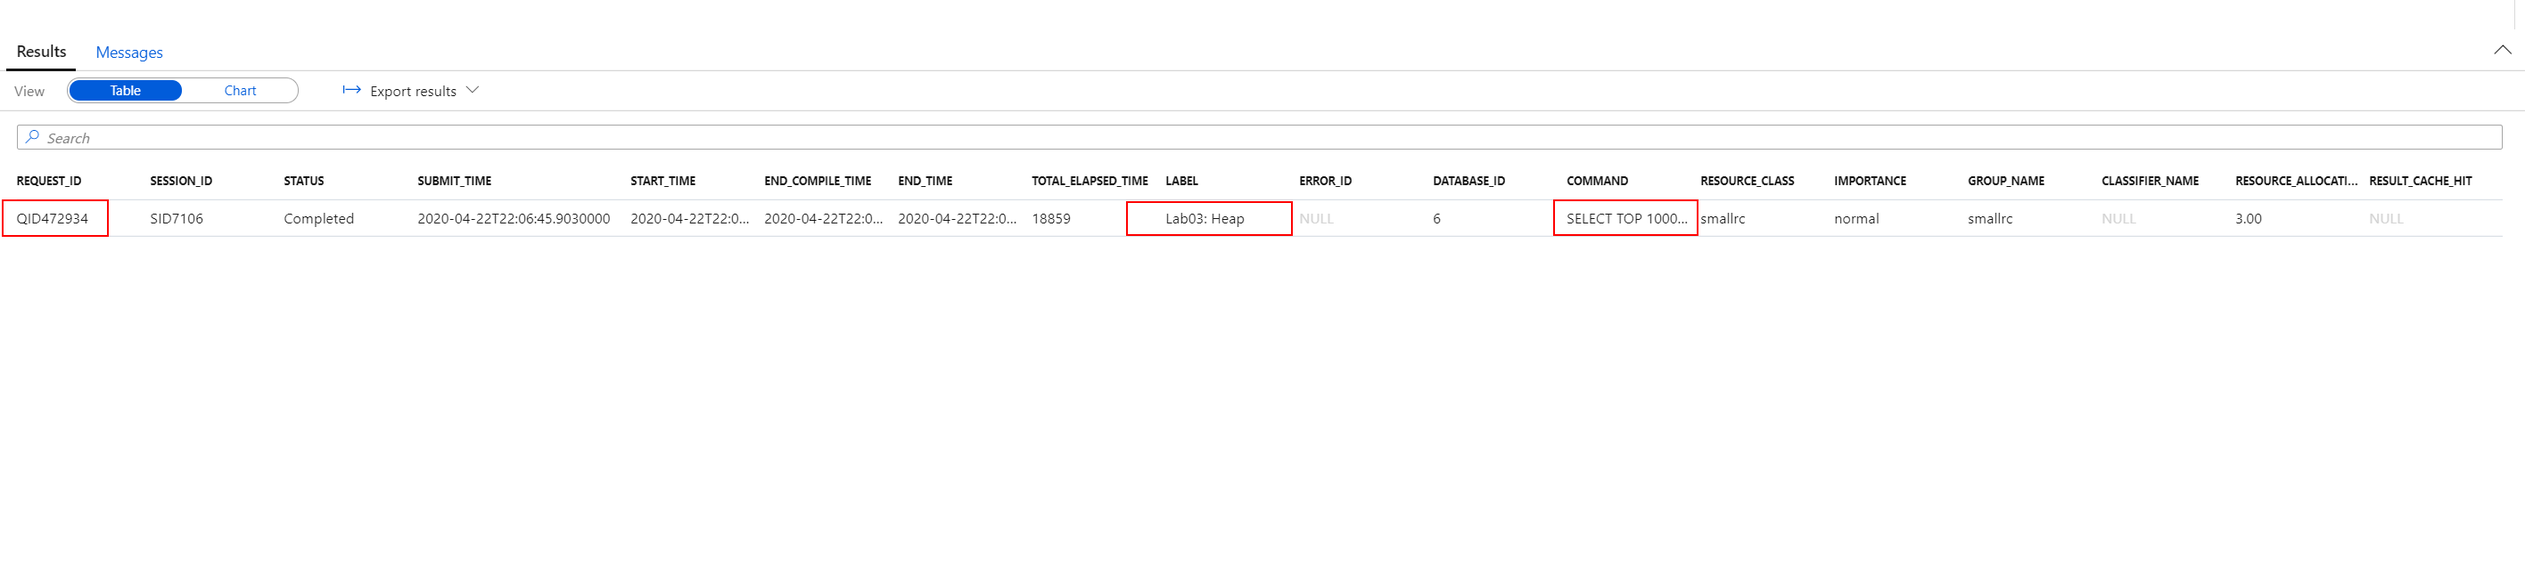
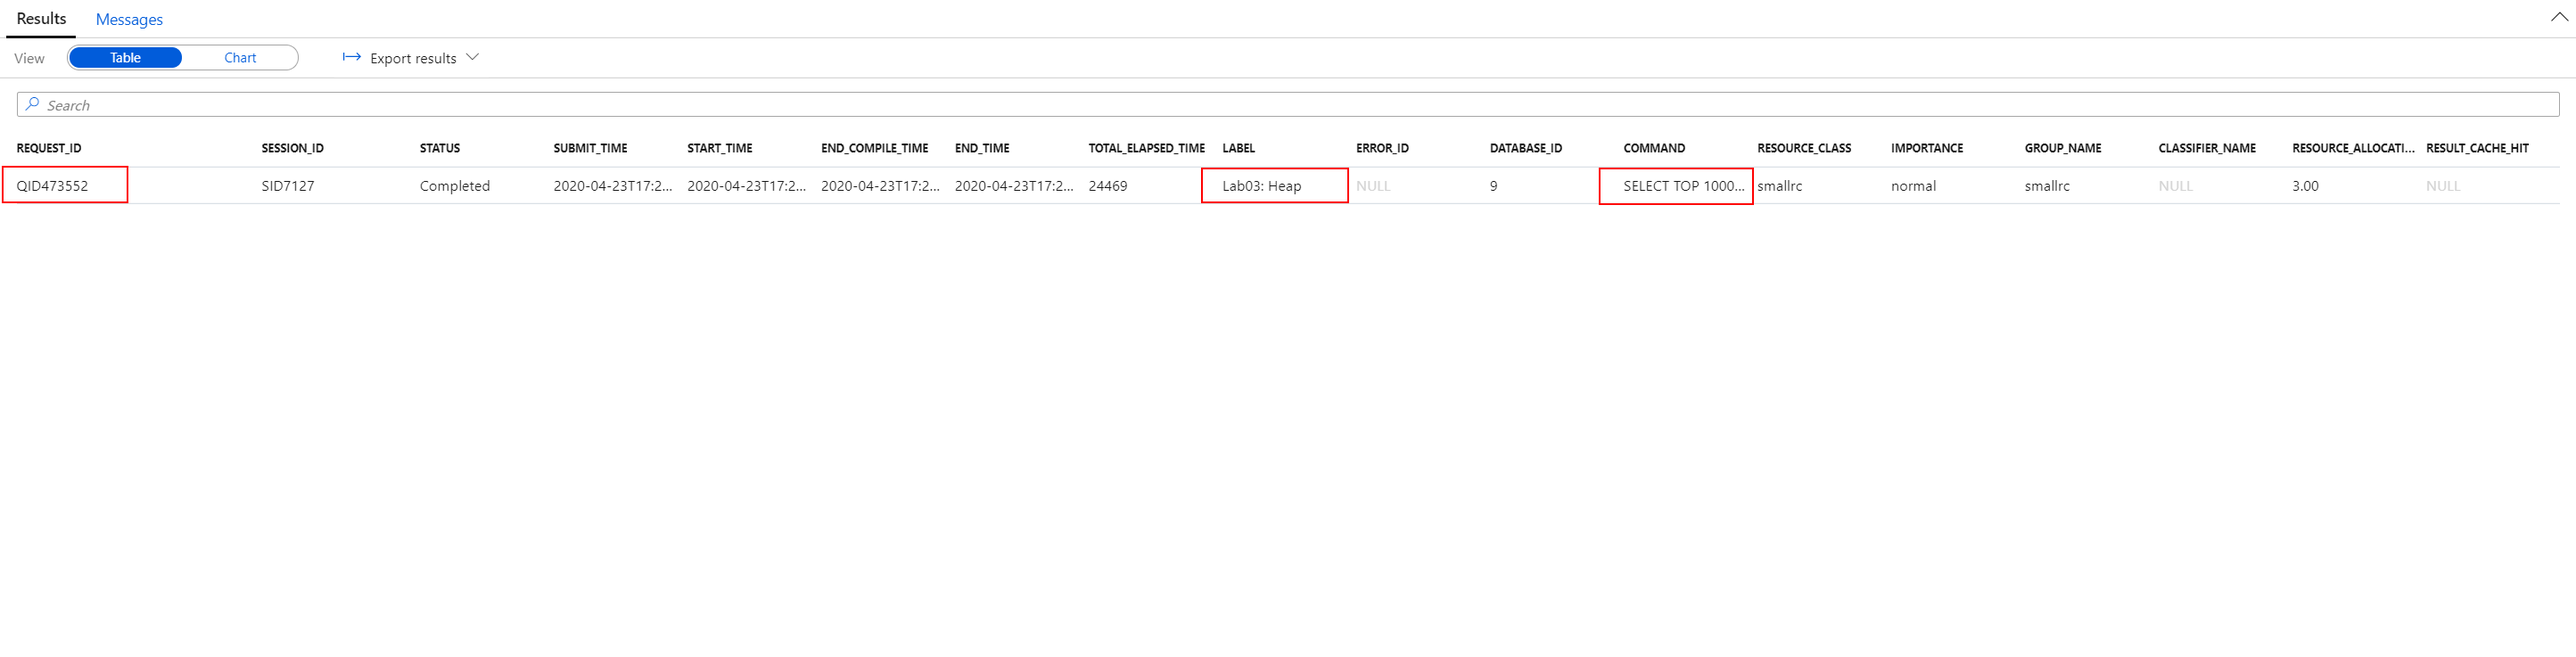
Lab 3 updates

diff --git a/day-02/lab03-dw-optimization-part-1.md b/day-02/lab03-dw-optimization-part-1.md
@@ -202,7 +202,7 @@ Explicit instructions on scaling up to DW1500 before the lab and scaling back af
 
     ![Retrieving the query id](./media/lab3_query_id.png)
 
-    Investigate the individual steps of the query:
+6. With the qiery id (`QID473552` in this case) you can now investigate the individual steps of the query:
 
     ```sql
     SELECT
@@ -210,10 +210,14 @@ Explicit instructions on scaling up to DW1500 before the lab and scaling back af
     FROM
         sys.dm_pdw_request_steps
     WHERE
-        request_id = 'QID472934'
+        request_id = 'QID473552'
     ORDER BY
        step_index
     ```
+
+    ![Query execution steps](./media/lab3_shuffle_move_2.png)
+
+    The steps (indexed 0 to 3) are matching operations 2 to 5 from the query plan. Again, the culprit stands out: the step with index 1 describes the inter-partition data movement operation. By looking at the `TOTAL_ELAPSED_TIME` column one can clearly tell the largest part of the query time is generated by this step.
 
     Investigate SQL on the distributed databases:
 
